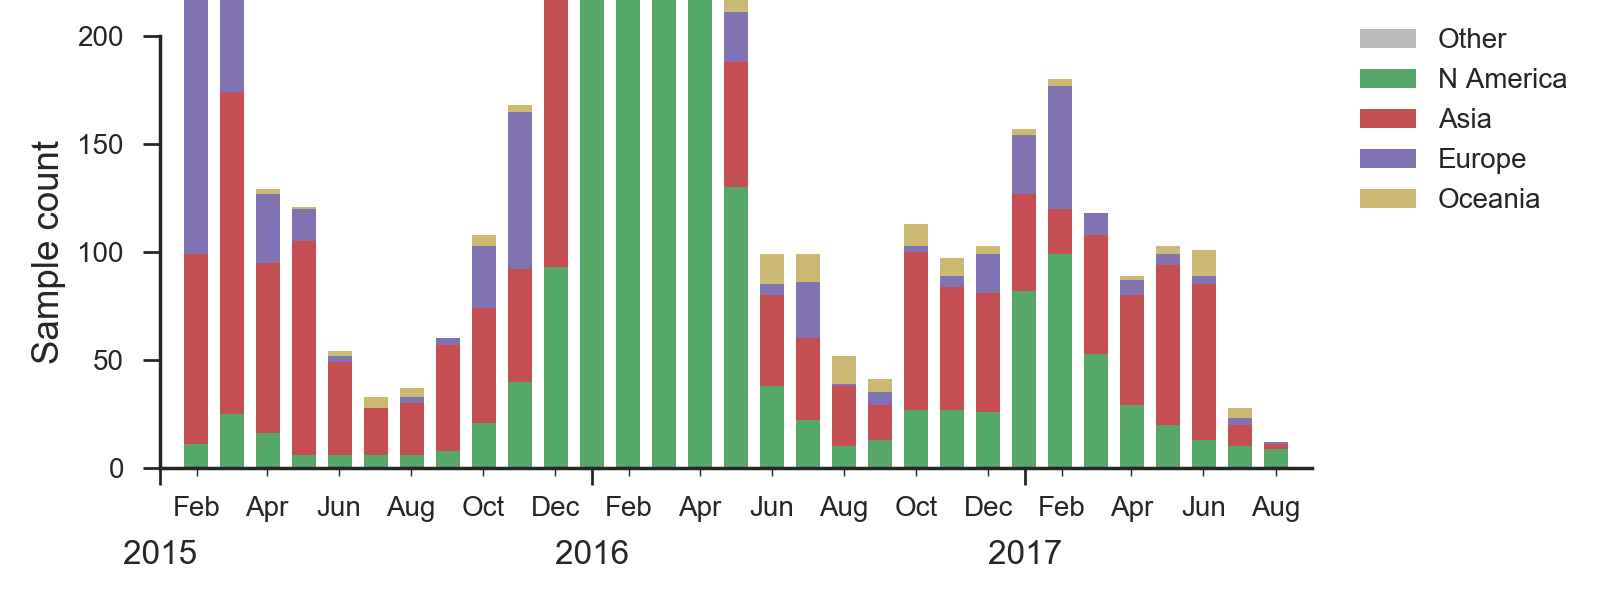
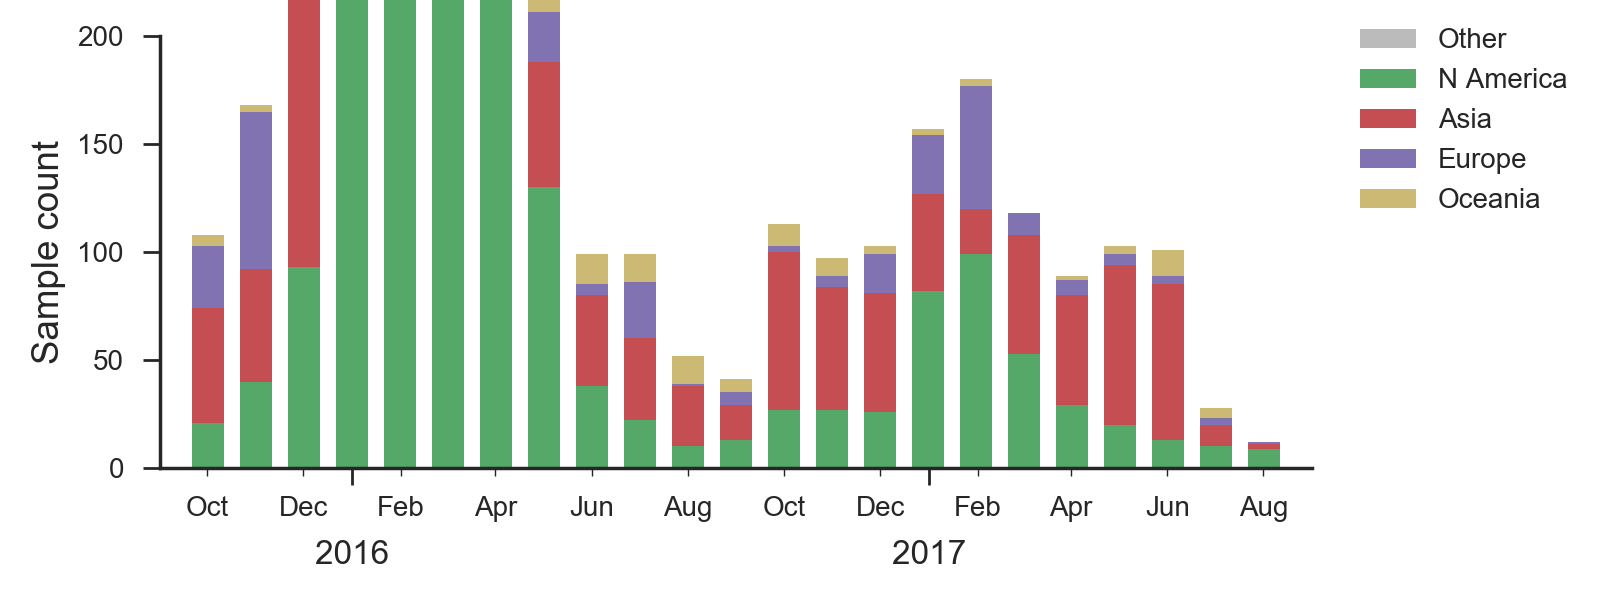
Update H1 section of report, emphasize global freq trajectories

diff --git a/auspice/reports/_posts/2017-09-12-sep-2017.html b/auspice/reports/_posts/2017-09-12-sep-2017.html
@@ -92,13 +92,17 @@ draft: true
         {% embed_image /reports/figures/sep-2017/h1n1pdm_mutations.png 12 %}
 
         <p>Antigenic analysis using HI measurements provided by the Influenza Division at the US Centers for Disease Control and Prevention fails to show any distinction within recently circulating H1N1pdm viruses.
-        Like the 6b.1 clade before it, the new S74R and I295V clade does not show any titer drop despite there being ample measurements.
-        It was observed that naive ferret antisera failed to capture an antigenic drift event that occured in 6b.1 viruses.
-        This was because of immune history and immunodominance effects as described in XXX.
+        Like the clades 6b and 6b.1 clade before it, the new S74R and I295V clade does not show any titer drop despite there being ample measurements.
 
         {% embed_image /reports/figures/sep-2017/h1n1pdm_tree_titer_model.png 12 %}
 
-        <p><i>Given current patterns of growth and decline is almost certain that the S74R and I295V clade will dominant in a years time.
+        It was previously observed that clade 6b viruses with mutation K163Q showed decreased titers in a subset of adult human sera due to immunodominance effects, despite continued high titers in ferret sera (<a href="">Linderman et al 2014</a>).
+        Importantly, the new S74R and I295V clade has spread at a similarly rapid rate as did clades 6b and 6b.1.
+        This rate of spread and displacement of existing viral diversity is consistent with a selective driver.
+
+        {% embed_image /reports/figures/sep-2017/h1n1pdm_mutations_6b_6b1.png 12 %}
+
+        <p><i>Given current patterns of growth and decline it is almost certain that the S74R and I295V clade will dominant in a years time.
         Although there is no antigenic effect visible via HI from ferret antisera, the rapidity of the rise of S74R and I295V suggests a selective origin.
         We would suggest a detailed examination of human serological data as it's already been established that human serology may differ from ferret serology in H1N1pdm viruses.</i>
 

diff --git a/auspice/reports/plot_clades.py b/auspice/reports/plot_clades.py
@@ -14,30 +14,35 @@ args = parser.parse_args()
 
 virus = args.lineage
 
-resolution = '3y'
 report = 'sep-2017'
-drop = 5
+drop = 1
+resolution = '2y'
 
 if virus=='h3n2':
     clades = ['3c2.a', '3c3.a', '3c3.b', '171K']
     mutations = ['HA1:121K', 'HA1:92R', 'HA1:131K', 'HA1:31S','HA1:198P', 'HA1:193S']
     clade_legend = {'panel':0, 'loc':3}
     mut_legend = {'panel':0, 'loc':3}
+    ymax = 500
 elif virus=='h1n1pdm':
     clades = []
-    mutations = ['HA1:162N', 'HA1:74R', 'HA1:295V', 'HA1:164T']
+    mutations = ['HA1:74R', 'HA1:295V', 'HA1:164T']
+    #mutations = ['HA1:163Q', 'HA1:162N', 'HA1:74R']
     clade_legend = {'panel':0, 'loc':3}
     mut_legend = {'panel':0, 'loc':3}
+    ymax = 200
 elif virus=='vic':
     clades = []
     mutations = ['HA1:163-','HA1:209N', 'HA1:175V'] # HA1:56K would be good, but it currently isn't computed -> need to lower the threshold.
     clade_legend = {'panel':0, 'loc':3}
     mut_legend = {'panel':0, 'loc':3}
+    ymax = 500
 elif virus=='yam':
     clades = []
     mutations = ['HA1:251V', 'HA1:211R']
     clade_legend = {'panel':0, 'loc':3}
     mut_legend = {'panel':0, 'loc':3}
+    ymax = 500
 
 file_addendum = '_cell_hi'
 #file_addendum = ''
@@ -58,9 +63,11 @@ region_codes = {'EU':['europe'], 'AS':['china', 'south_asia', 'japan_korea','sou
                 'NA':["north_america"], 'OC':["oceania"]}
 
 offset = datetime(2000,1,1).toordinal()
-regions = ['global', 'NA', 'AS', 'EU', 'OC']
-region_label = {'global': 'Global', 'NA': 'N America', 'AS': 'Asia', 'EU': 'Europe', 'OC': 'Oceania'}
+regions = ['NA', 'AS', 'EU', 'OC', 'global']
+region_label = {'NA': 'N America', 'AS': 'Asia', 'EU': 'Europe', 'OC': 'Oceania', 'global': 'Global'}
 cols = sns.color_palette(n_colors=len(regions))
+cols.pop(0)
+cols.append(sns.color_palette(["#3E547F"], n_colors=1)[0])
 fs=12
 
 years = YearLocator()
@@ -98,7 +105,7 @@ for c,region in zip(cols, regions):
                 label=region_label[region], color=c, clip_on=False)
         tmpcounts += np.array(counts[region][drop:])
 ax.set_xlim([pivots[drop-1], pivots[-1]])
-ax.set_ylim(0,500)
+ax.set_ylim(0,ymax)
 ax.tick_params(axis='x', which='major', labelsize=fs, pad=20)
 ax.tick_params(axis='x', which='minor', pad=7)
 ax.xaxis.set_major_locator(years)
